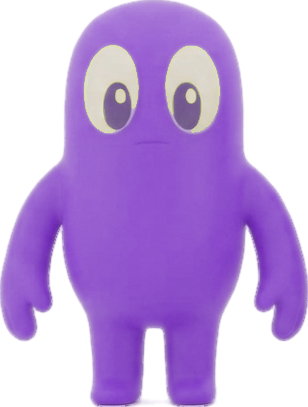
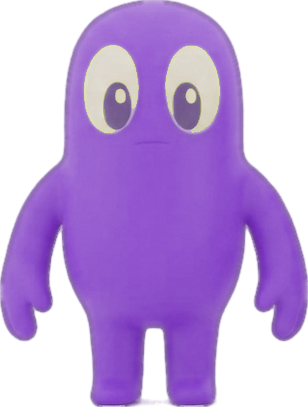
Turn the render's rim light into a contour, and match the store button to the info button
The pale outline left on every creature was not the cut -- it was the
source render, which is lit with a bright edge all the way round the
silhouette. Rotating its hue kept that brightness, so each colour came
out haloed just inside its outline, which is most of what read as a
cheap cut-out. The band nearest the edge now has its highlights
compressed towards the body's own mid-tone and then darkens slightly,
so the character ends in a defined contour the way a drawn asset does
instead of fading into a glow. Measured on blue: the edge band went
from 15 points lighter than the body to 15 points darker.

The map's three controls also had two different shadows between them --
the safety button's was heavier than the crosshair's and the store's,
which reads as a size difference rather than a depth one. All three
share one now, and the drawn shop icon drops to 18px to carry the same
visual weight as the 'i' beside it.

diff --git a/apps/mobile/src/app/(tabs)/index.tsx b/apps/mobile/src/app/(tabs)/index.tsx
@@ -462,7 +462,7 @@ export default function MapScreen() {
               accessibilityState={{ expanded: storeOpen }}
               accessibilityLabel={ka ? 'მაღაზია' : 'Store'}
             >
-              <StoreIcon color={storeOpen ? c.bg : c.accentInk} size={20} />
+              <StoreIcon color={storeOpen ? c.bg : c.accentInk} size={18} />
             </Pressable>
           </View>
 
@@ -804,9 +804,9 @@ const makeStyles = (c: Palette) => StyleSheet.create({
     alignItems: 'center',
     justifyContent: 'center',
     shadowColor: '#000',
-    shadowOpacity: 0.25,
-    shadowRadius: 6,
-    shadowOffset: { width: 0, height: 2 },
+    shadowOpacity: 0.35,
+    shadowRadius: 10,
+    shadowOffset: { width: 0, height: 4 },
     elevation: 5,
   },
   storeButtonOpen: { backgroundColor: c.accent, borderColor: c.accent },
@@ -820,9 +820,9 @@ const makeStyles = (c: Palette) => StyleSheet.create({
     alignItems: 'center',
     justifyContent: 'center',
     shadowColor: '#000',
-    shadowOpacity: 0.25,
-    shadowRadius: 6,
-    shadowOffset: { width: 0, height: 2 },
+    shadowOpacity: 0.35,
+    shadowRadius: 10,
+    shadowOffset: { width: 0, height: 4 },
     elevation: 5,
   },
   recentreIcon: { color: c.accentInk, fontSize: 22, fontWeight: '700' },

diff --git a/tools/recolour-creature.py b/tools/recolour-creature.py
@@ -23,6 +23,10 @@ and it showed on every creature in the app:
   now, as the holes binary_fill_holes closes: a region enclosed by body is an
   eye, a highlight on the body's edge is not.
 
+  The render's own rim light survived the hue rotation as a pale halo inside
+  every silhouette, which is most of what made the character look like a cheap
+  cut-out. tame_rim() compresses and darkens that band into a contour.
+
   And cutting the character off a light background leaves a rim of pixels that
   are part background, which survives as a white halo once the alpha is
   applied. Every pixel's colour is now taken from the nearest fully opaque
@@ -65,6 +69,35 @@ def hue_shift(rgb: np.ndarray, hue: float) -> np.ndarray:
     p, q, t = v * (1 - s), v * (1 - f * s), v * (1 - (1 - f) * s)
     channels = [(v, t, p), (q, v, p), (p, v, t), (p, q, v), (t, p, v), (v, p, q)][i]
     return (np.clip(np.dstack(channels), 0, 1) * 255).astype(np.uint8)
+
+
+def tame_rim(rgb: np.ndarray, alpha: np.ndarray) -> np.ndarray:
+    """
+    Pull down the render's rim light and draw a contour in its place.
+
+    The source render is lit with a bright edge all the way round the
+    silhouette. Rotating its hue keeps that brightness, so every colour came
+    out with a pale halo just inside its outline -- the thing that reads as a
+    cheap cut-out. Two corrections, both on the band nearest the edge:
+    compress how bright it is allowed to get, then darken it slightly, so the
+    character ends in a defined contour the way a drawn asset does rather than
+    fading into a glow.
+    """
+    solid = alpha > 0.5
+    # How deep each pixel sits inside the silhouette, in pixels.
+    depth = ndimage.distance_transform_edt(solid)
+
+    # 0 at the outline, 1 once we are BAND pixels in.
+    BAND = 6.0
+    t = np.clip(depth / BAND, 0, 1)[..., None]
+
+    out = rgb.astype(np.float32)
+    # Highlights near the edge get compressed towards the body's own mid-tone.
+    mid = np.median(out[solid & (depth > BAND)], axis=0) if (solid & (depth > BAND)).any() else out.mean(axis=(0, 1))
+    out = out * t + (out * 0.55 + mid * 0.45) * (1 - t)
+    # And the outermost pixels darken into a contour.
+    out *= 0.80 + 0.20 * t
+    return np.clip(out, 0, 255).astype(np.uint8)
 
 
 def unfringe(rgb: np.ndarray, alpha: np.ndarray) -> np.ndarray:
@@ -111,6 +144,7 @@ def main(src: str, x0: int, x1: int) -> None:
     alpha8 = (alpha * 255).astype(np.uint8)
 
     rgb = unfringe((sub * 255).astype(np.uint8), alpha)
+    rgb = tame_rim(rgb, alpha)
 
     Image.fromarray(np.dstack([rgb, alpha8]), "RGBA").save(
         os.path.join(OUT, "creature-green.png")
